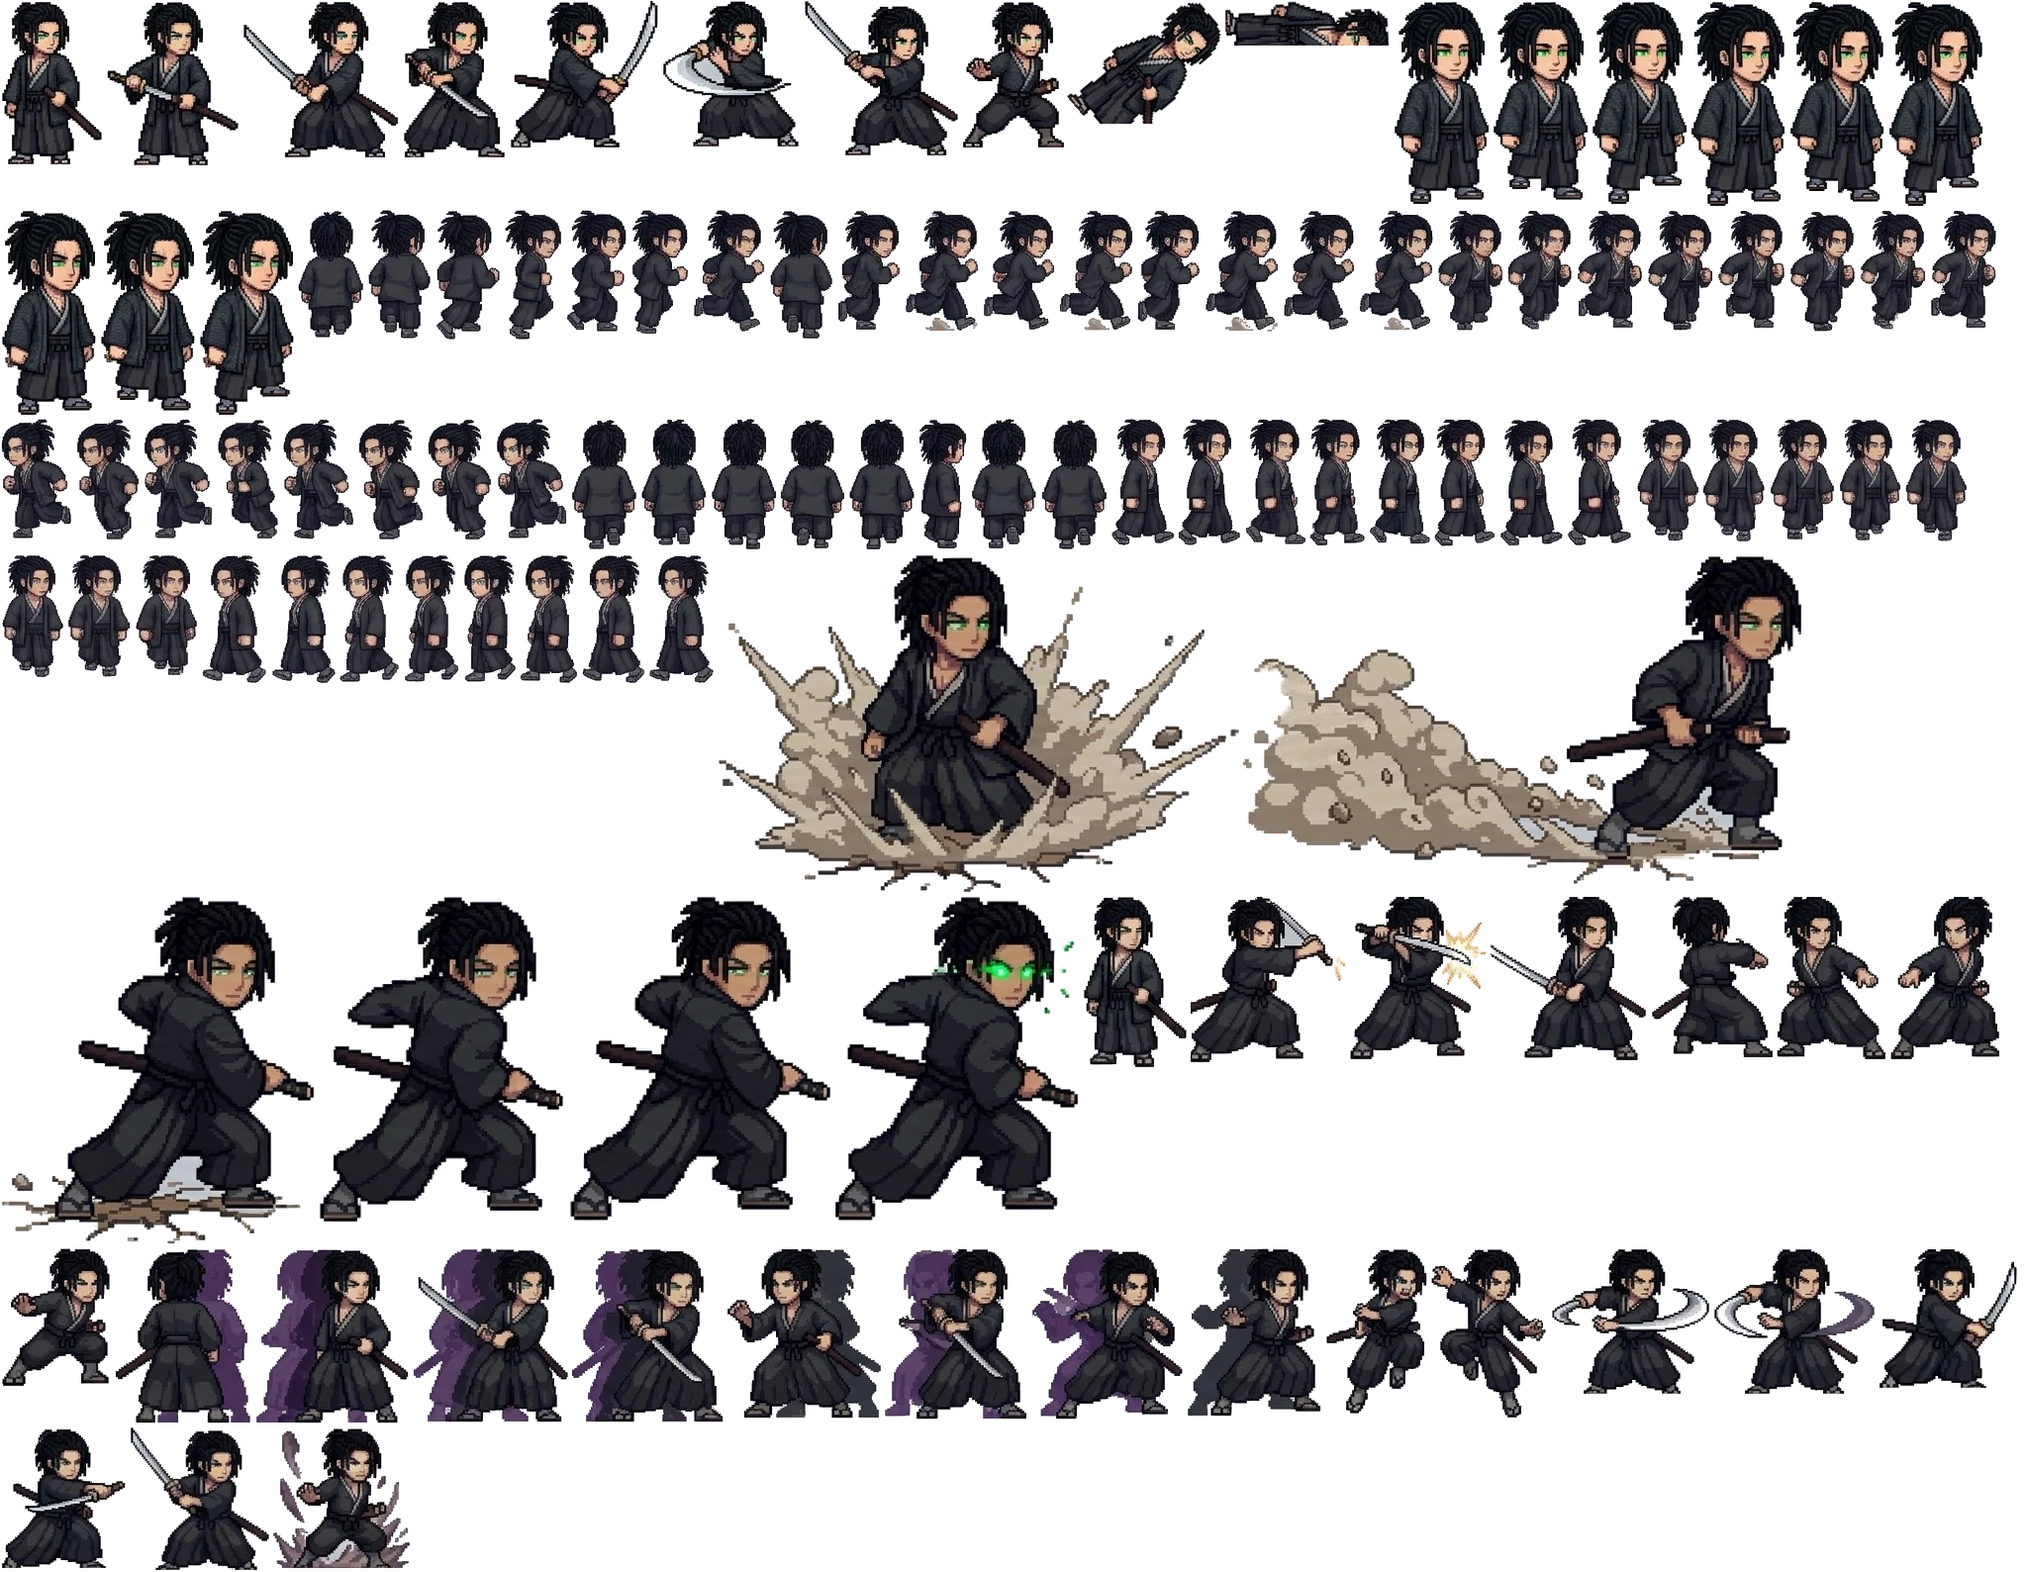
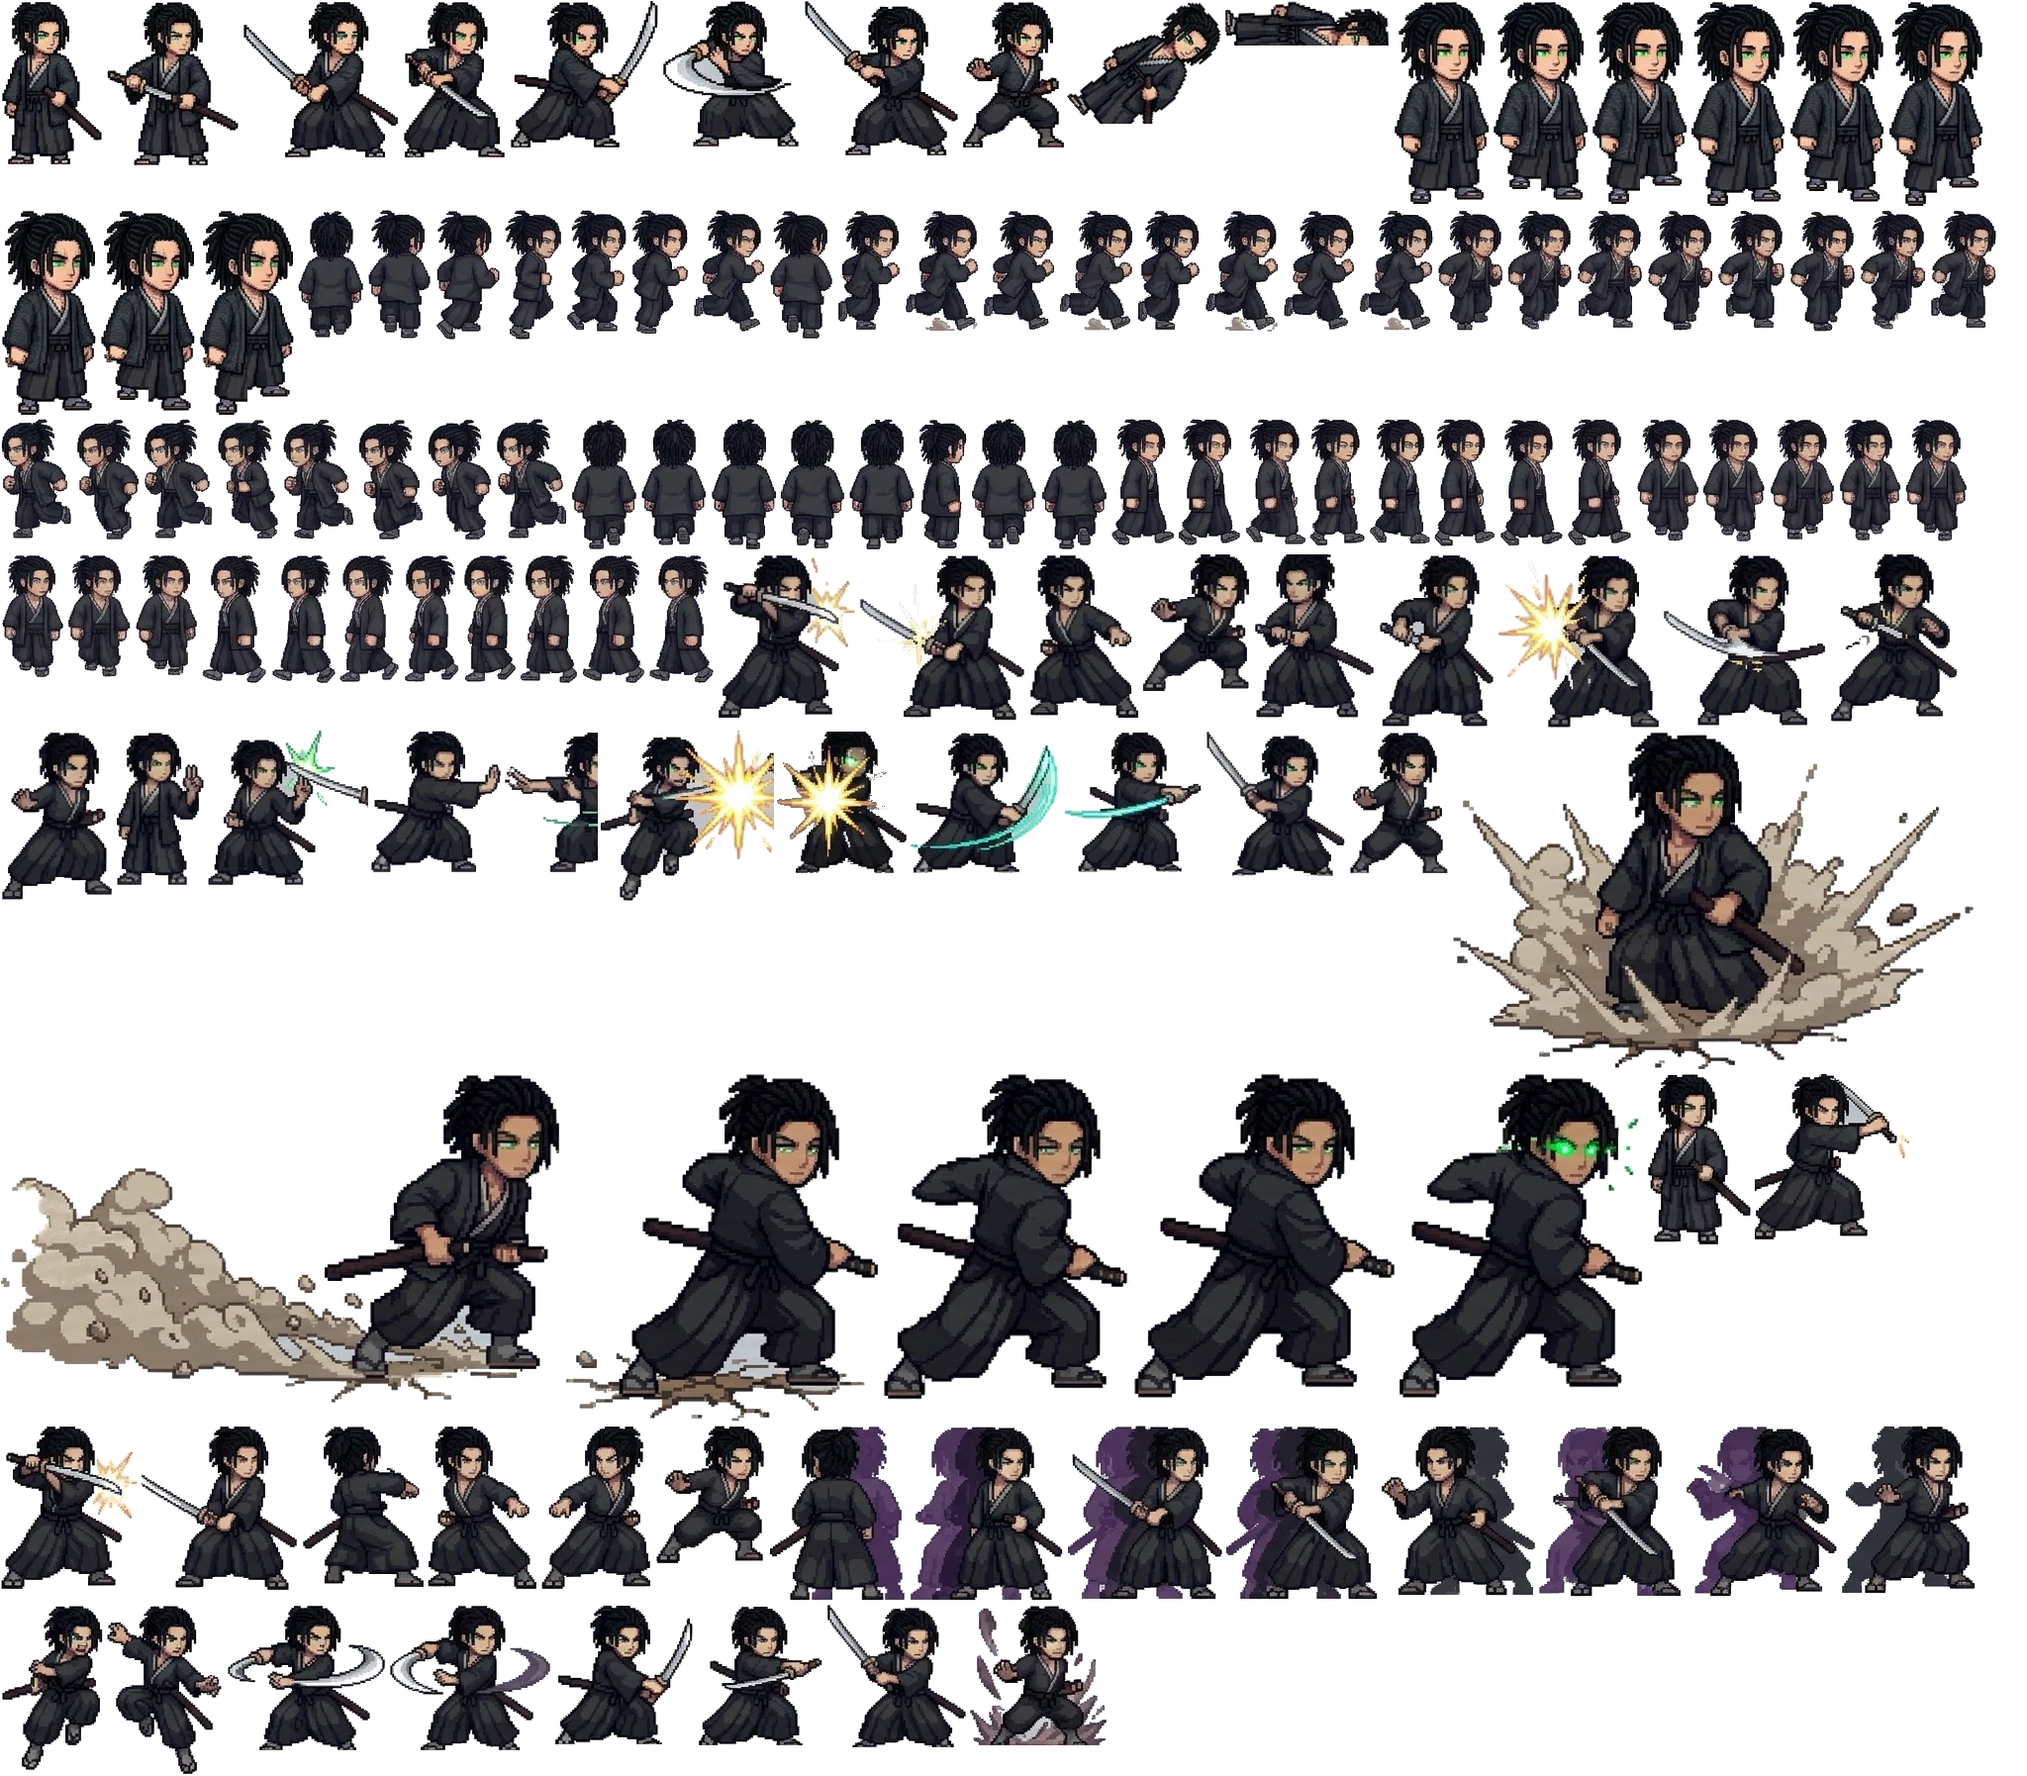
Ren's parry set: sheath block, quick-draw, two-finger catch, palm redirect; counterattack finisher with the glowing-eyes cut-in
Claude-Session: https://claude.ai/code/session_01Y9XB2BHqdWdEP8tdmCfuZX

diff --git a/emerald-blood/index.html b/emerald-blood/index.html
@@ -336,52 +336,52 @@ h1{font-family:'Press Start 2P';font-size:clamp(18px,3.4vw,30px);color:var(--gre
   setTimeout(function(){ if(window.G&&G.mode==='boot'){ var t=document.getElementById('loadTxt'); add('Still loading after 25s — stuck at: '+(t?t.textContent:'?')+' ('+(document.getElementById('loadBar')||{style:{}}).style.width+')'); } },25000);
 })();
 </script>
-<script src="js/core.js?v=98"></script>
-<script src="js/world.js?v=98"></script>
-<script src="js/dialog.js?v=98"></script>
-<script src="js/portraits.js?v=98"></script>
-<script src="js/cine.js?v=98"></script>
-<script src="js/battle.js?v=98"></script>
-<script src="js/monsters.js?v=98"></script>
-<script src="js/realm.js?v=98"></script>
-<script src="js/story.js?v=98"></script>
-<script src="js/stones.js?v=98"></script>
-<script src="js/lore.js?v=98"></script>
-<script src="js/guild.js?v=98"></script>
-<script src="js/progress.js?v=98"></script>
-<script src="js/dungeons.js?v=98"></script>
-<script src="js/quests.js?v=98"></script>
-<script src="js/worldmap.js?v=98"></script>
-<script src="js/events.js?v=98"></script>
-<script src="js/companions.js?v=98"></script>
-<script src="js/bonds.js?v=98"></script>
-<script src="js/bloodlust.js?v=98"></script>
-<script src="js/ui.js?v=98"></script>
-<script src="js/ch1.js?v=98"></script>
-<script src="js/passives.js?v=98"></script>
-<script src="js/veil.js?v=98"></script>
-<script src="js/leaf.js?v=98"></script>
-<script src="js/tavern.js?v=98"></script>
-<script src="js/ambient.js?v=98"></script>
-<script src="js/combat2.js?v=98"></script>
-<script src="js/combat3.js?v=98"></script>
-<script src="js/combat4.js?v=98"></script>
-<script src="js/battlefx.js?v=98"></script>
-<script src="js/feats.js?v=98"></script>
-<script src="js/clash.js?v=98"></script>
-<script src="js/ch1b.js?v=98"></script>
-<script src="js/combat5.js?v=98"></script>
-<script src="js/elements.js?v=98"></script>
-<script src="js/flurry.js?v=98"></script>
-<script src="js/journey.js?v=98"></script>
-<script src="js/renown.js?v=98"></script>
-<script src="js/contracts.js?v=98"></script>
-<script src="js/raids.js?v=98"></script>
-<script src="js/ledger.js?v=98"></script>
-<script src="js/btsprites.js?v=98"></script>
-<script src="js/hdsprites.js?v=98"></script>
-<script src="js/town.js?v=98"></script>
-<script src="js/charge.js?v=98"></script>
+<script src="js/core.js?v=99"></script>
+<script src="js/world.js?v=99"></script>
+<script src="js/dialog.js?v=99"></script>
+<script src="js/portraits.js?v=99"></script>
+<script src="js/cine.js?v=99"></script>
+<script src="js/battle.js?v=99"></script>
+<script src="js/monsters.js?v=99"></script>
+<script src="js/realm.js?v=99"></script>
+<script src="js/story.js?v=99"></script>
+<script src="js/stones.js?v=99"></script>
+<script src="js/lore.js?v=99"></script>
+<script src="js/guild.js?v=99"></script>
+<script src="js/progress.js?v=99"></script>
+<script src="js/dungeons.js?v=99"></script>
+<script src="js/quests.js?v=99"></script>
+<script src="js/worldmap.js?v=99"></script>
+<script src="js/events.js?v=99"></script>
+<script src="js/companions.js?v=99"></script>
+<script src="js/bonds.js?v=99"></script>
+<script src="js/bloodlust.js?v=99"></script>
+<script src="js/ui.js?v=99"></script>
+<script src="js/ch1.js?v=99"></script>
+<script src="js/passives.js?v=99"></script>
+<script src="js/veil.js?v=99"></script>
+<script src="js/leaf.js?v=99"></script>
+<script src="js/tavern.js?v=99"></script>
+<script src="js/ambient.js?v=99"></script>
+<script src="js/combat2.js?v=99"></script>
+<script src="js/combat3.js?v=99"></script>
+<script src="js/combat4.js?v=99"></script>
+<script src="js/battlefx.js?v=99"></script>
+<script src="js/feats.js?v=99"></script>
+<script src="js/clash.js?v=99"></script>
+<script src="js/ch1b.js?v=99"></script>
+<script src="js/combat5.js?v=99"></script>
+<script src="js/elements.js?v=99"></script>
+<script src="js/flurry.js?v=99"></script>
+<script src="js/journey.js?v=99"></script>
+<script src="js/renown.js?v=99"></script>
+<script src="js/contracts.js?v=99"></script>
+<script src="js/raids.js?v=99"></script>
+<script src="js/ledger.js?v=99"></script>
+<script src="js/btsprites.js?v=99"></script>
+<script src="js/hdsprites.js?v=99"></script>
+<script src="js/town.js?v=99"></script>
+<script src="js/charge.js?v=99"></script>
 <script>if('serviceWorker' in navigator&&location.protocol==='https:')navigator.serviceWorker.register('sw.js').catch(()=>{});</script>
 </body>
 </html>

diff --git a/emerald-blood/js/hdsprites.js b/emerald-blood/js/hdsprites.js
@@ -144,7 +144,7 @@ HD.load();
       if (k) { const now = performance.now(); (HD.acts = HD.acts || {})[own] = { name: k[0], t0: now, end: now + k[1] }; if (k[0] === 'pdodge') a.afterimg = Math.max(a.afterimg || 0, 520); }
     }
     if (a && a.isMe && HD.on() && !G.S.kid) {
-      const k = txt === 'PERFECT DODGE' ? ['pdodge', 560] : txt === 'DODGE' ? ['dodge', 380] : (txt === 'PERFECT PARRY' || txt === 'PARRY') ? ['parry', txt === 'PARRY' ? 360 : 460] : null;
+      const k = txt === 'PERFECT DODGE' ? ['pdodge', 560] : txt === 'DODGE' ? ['dodge', 380] : txt === 'PARRY' ? ['parry', 380] : txt === 'PERFECT PARRY' ? [HD.meta && HD.meta[HD.playerSet()].anims.pp1 ? pick(['pp1', 'pp2', 'pp3']) : 'parry', 520] : null;
       if (k) { const now = performance.now(); HD.act = { name: k[0], t0: now, end: now + k[1] }; if (k[0] === 'pdodge') a.afterimg = Math.max(a.afterimg || 0, 520); }
     }
     return _text(a, txt, ...r);
@@ -446,5 +446,28 @@ const Comic = {
       for (let i = 0; i < 8; i++) { const px = cx - w * .42 + i * w * .12, py = cy + h * .45; c.fillStyle = i < n ? '#7dff7a' : 'rgba(120,160,120,.25)'; c.beginPath(); c.arc(px, py, i < n ? 2.4 : 1.6, 0, 7); c.fill(); }
       c.restore();
     }
+  };
+})();
+
+/* the perfect-parry finisher: when every hit of a combo is parried, Ren's eyes flare in a cut-in, then the counter-slash */
+(function () {
+  let eyes = null; loadImg('assets/cutscenes/ren_parry_eyes.png?v=1').then(i => { eyes = i; }).catch(() => {});
+  const _msg = Battle.msg.bind(Battle);
+  Battle.msg = function (s, ms, hold) {
+    if (s === 'COUNTERATTACK!' && HD.on() && G.S && !G.S.kid && HD.meta && HD.meta[HD.playerSet()].anims.ppfin) {
+      const now = performance.now(); HD.act = { name: 'ppfin', t0: now, end: now + 900 }; HD.cutin = { t0: now, end: now + 650 };
+    }
+    return _msg(s, ms, hold);
+  };
+  const _r = Battle.render.bind(Battle);
+  Battle.render = function (c, t) {
+    _r(c, t);
+    const C = HD.cutin, now = performance.now(); if (!C || now > C.end || !eyes || !this.B) return;
+    const W = G.view.w, H = G.view.h, k = (now - C.t0) / (C.end - C.t0), a = k < .15 ? k / .15 : k > .75 ? (1 - k) / .25 : 1;
+    const bh = H * .34, by = H * .22, sc = bh / eyes.height * 1.25, w = eyes.width * sc;
+    c.save(); c.globalAlpha = a; c.fillStyle = 'rgba(0,0,0,.75)'; c.fillRect(0, by, W, bh);
+    c.beginPath(); c.rect(0, by, W, bh); c.clip(); c.imageSmoothingEnabled = false;
+    c.drawImage(eyes, W / 2 - w / 2 + (1 - k) * 30, by + bh / 2 - eyes.height * sc * .45, w, eyes.height * sc);
+    c.strokeStyle = '#7dffb0'; c.lineWidth = 2; c.globalAlpha = a * .9; c.strokeRect(-2, by, W + 4, bh); c.restore();
   };
 })();

diff --git a/emerald-blood/sw.js b/emerald-blood/sw.js
@@ -1,6 +1,6 @@
 // pages & scripts: network-first (updates arrive immediately). Images: served from the phone's cache,
 // refreshed quietly in the background — so launching never waits on hundreds of image checks.
-const C = 'emerald-blood-v95', IMG = 'emerald-blood-img-2';
+const C = 'emerald-blood-v96', IMG = 'emerald-blood-img-2';
 self.addEventListener('install', e => self.skipWaiting());
 self.addEventListener('activate', e => e.waitUntil(caches.keys().then(ks => Promise.all(ks.filter(k => k !== C && k !== IMG).map(k => caches.delete(k)))).then(() => clients.claim())));
 self.addEventListener('fetch', e => {
